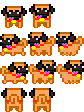
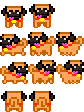
Doggos sound and eat animation and fixed reset

Changed region(s): [[0.0, 0.7768, 0.6667, 0.9911]]

diff --git a/src/doggo.h b/src/doggo.h
@@ -26,18 +26,39 @@ struct Doggo : BoxEntity, EntS<Doggo>
 	int destination = 0;
 	bool wantFood = false;
 
+
+	void PlaySound() {
+		switch (Random::roll(3)) {
+		case 0:
+			Assets::soundDoggo1.play();
+			break;
+		case 1:
+			Assets::soundDoggo2.play();
+			break;
+		case 2:
+			Assets::soundDoggo3.play();
+			break;
+		default:
+			assert(false);
+		}
+	}
+
+	static std::set<int>& AllDestinations() {
+		static std::set<int> all_destinations;
+		return all_destinations;
+	}
 	Doggo() : BoxEntity(vec(), vec(28,28)) {
 		anim.Ensure(DOGGO_RIGHT);
 
-		static std::set<int> all_destinations;
-		if (all_destinations.size() == TiledEntities::waypoint.size()) {
-			all_destinations.clear();
+		
+		if (AllDestinations().size() == TiledEntities::waypoint.size()) {
+			AllDestinations().clear();
 		}
 
 		while (true) {
 			destination = Random::roll(TiledEntities::waypoint.size());
-			if (all_destinations.find(destination) == all_destinations.end()) {
-				all_destinations.insert(destination);
+			if (AllDestinations().find(destination) == AllDestinations().end()) {
+				AllDestinations().insert(destination);
 				break;
 			}
 		}
@@ -52,16 +73,21 @@ struct Doggo : BoxEntity, EntS<Doggo>
 			nextPoint = TiledEntities::waypoint.size()-1;
 			forward = false;
 		}
+		PlaySound();
 	}
 
 	void Update(float dt)
 	{
 
 		anim.Update(dt * 1000);
-		menjar_bubble_timer -= dt;
 
 		if (wantFood) {
 			menjar -= kMenjarDecreasePerSecond * dt;
+
+			menjar_bubble_timer -= dt;
+			if (menjar_bubble_timer < 0) {
+				anim.Ensure(DOGGO_IDLE);
+			}
 		}
 		else {
 			vec dest = TiledEntities::waypoint[nextPoint];
@@ -77,6 +103,7 @@ struct Doggo : BoxEntity, EntS<Doggo>
 				if (nextPoint == destination) {
 					anim.Ensure(DOGGO_IDLE);
 					wantFood = true;
+					PlaySound();
 				}
 				else {
 					if (forward) {
@@ -116,7 +143,7 @@ struct Doggo : BoxEntity, EntS<Doggo>
       bubble_sprite.setTextureRect({16,0,18,23});
       bubble_sprite.setPosition(vec(pos) + vec(17.0f, -15.f));
       window.draw(bubble_sprite);
-    }
+	}
 
 		// Draw bottom status.
     sf::Sprite status_sprite;
@@ -136,7 +163,9 @@ struct Doggo : BoxEntity, EntS<Doggo>
 	void Feed() {
 		menjar = kMaxMenjar;
 		menjar_bubble_timer = kMenjarBubbleDuration;
+		anim.Ensure(DOGGO_EAT);
 		++StatsTracker::doggos_fed;
+		PlaySound();
 	}
 
 };

diff --git a/src/scene_jumpman.cpp b/src/scene_jumpman.cpp
@@ -57,6 +57,8 @@ void JumpScene::EnterScene()
 void JumpScene::ExitScene()
 {
 	Plant::deleteAll();
+	Doggo::deleteAll();
+	Doggo::AllDestinations().clear();
 }
 
 void JumpScene::Update(float dt)
